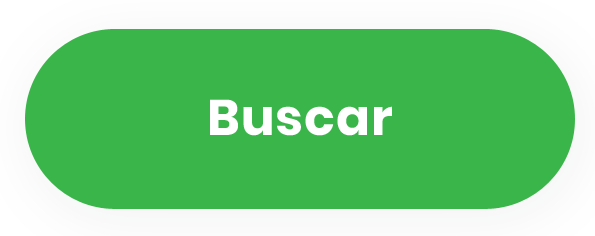
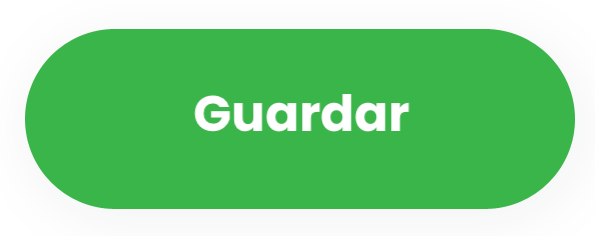
Recuperar password

Changed region(s): [[0.3025, 0.3856, 0.6958, 0.5932]]

diff --git a/www/templates/recuperar.html b/www/templates/recuperar.html
@@ -6,7 +6,7 @@
                 <img src="img/header_left.png" width="150" height="150"></img>
                 
         </div>
-        <form class="list" name="loginForm">
+        <form class="list" name="recuperarForm">
             <div style="line-height: 0px; border: 0px solid rgb(238, 238, 238); border-radius: 3px; text-align: center; width: 100%; height: auto; background-color: rgb(255, 255, 255);">
                  <div class="spacer" style="height: 30px;"></div>
                 <img src="img/logo_ajustado.png" width="200" height="40"></img>
@@ -14,7 +14,7 @@
             </div>
             <div style="line-height: 0px; border: 0px solid rgb(238, 238, 238); border-radius: 3px; text-align: center; width: 100%; height: auto; background-color: rgb(255, 255, 255);">
                  <div class="spacer" style="height: 25px;"></div>
-                <img src="img/acceso_es.png" width="60" height="10"></img>
+                
                 
             </div>
            
@@ -22,35 +22,27 @@
 
             <div align="center" style="line-height: 0px; border: 0px solid rgb(238, 238, 238); border-radius: 3px; text-align: center; width: 100%; height: auto; background-color: rgb(255, 255, 255);">
                 <div class="spacer" style="height: 15px;"></div>
-                  <div style="background: url('img/user.png'); background-size: 270px 45px; margin: 0 auto; text-align: center; width: 270px; height: 45px;">
+                  <div style="background: url('img/pass.png'); background-size: 270px 45px; margin: 0 auto; text-align: center; width: 270px; height: 45px;">
                     <label class="item_login item-input">
                     
-                        <input type="text" size="10" ng-model="usuarioLogin.user"  placeholder="Usuario">
+                        <input type="password" size="10" ng-model="usuario.password"  placeholder="Password">
                     </label>
                   </div>
                  <div class="spacer" style="height: 15px;"></div>
                   <div style="background: url('img/pass.png'); background-size: 270px 45px; margin: 0 auto; text-align: center; width: 270px; height: 45px;">
                     <label class="item_login item-input">
                     
-                        <input type="password" size="30" ng-model="usuarioLogin.password"  placeholder="Clave">
+                        <input type="password" size="30" ng-model="usuario.password2"  placeholder="Repetir password">
                     </label>
                   </div>
-                
-                
-            </div>
-
-             <div align="left" style="line-height: 0px; border: 0px solid rgb(238, 238, 238); border-radius: 3px; text-align: center; width: 100%; height: auto; background-color: rgb(255, 255, 255);">
-                
-                 <div class="spacer" style="height: 20px;"></div>
-                <a href="#/usuarioEmail"><img src="img/title_forgot.png" width="120" height="20"></img></a>
-                    
+                                
             </div>
 
             <div align="left" style="line-height: 0px; border: 0px solid rgb(238, 238, 238); border-radius: 3px; text-align: center; width: 100%; height: auto; background-color: rgb(255, 255, 255);">
                 
-                 <div class="spacer" style="height: 20px;"></div>
-                <img src="img/button_entrar_es.png" width="150" height="60" ng-click="loginUsuario(loginForm);"></img>
-                 
+                 <div class="spacer" style="height: 30px;"></div>
+                <img src="img/btn_guardar.png" width="150" height="60" ng-click="recuperarUsuario(recuperarForm);"></img>
+                
             </div>
             
             <div align="left" style="line-height: 0px; border: 0px solid rgb(238, 238, 238); border-radius: 3px; text-align:left; width: 100%; height:auto; background-color: rgb(255, 255, 255);">
@@ -62,9 +54,7 @@
                     <div class = "col-20" ><img src="img/footer.png" width="100" height="100"></img></div>
                     <div class = "col-10" ></div>
 
-                    <div class = "col-50" style="text-align: center;">
-                        <a href="#/userRegister"><img src="img/Registro_es.png" width="150" height="50"></img></a>
-                    </div>
+                  
 
                 </div>
             </div>

diff --git a/www/js/controllers.js b/www/js/controllers.js
@@ -52,40 +52,74 @@ angular.module('app.controllers', [])
 
 .controller('usuarioEmailCtrl', function($scope, usuarioService, $state, $ionicPopup) {
   console.log("UsuarioEmail Ctrl");
-  $scope.usuarioLogin={};
+  $scope.usuarioEmail={};
+ 
 
-  $scope.findUserEmail = function (usuarioEmailForm) {
-     console.debug("search user");
-     var user = $scope.usuarioEmail.user.toLowerCase();
-     var email = $scope.usuarioEmail.email.toLowerCase();
+  $scope.findUserEmail = function () {
+   console.info("search user"+$scope.usuarioEmail.mail);
+   var user = $scope.usuarioEmail.user.toLowerCase();
+   var mail = $scope.usuarioEmail.mail.toLowerCase();     
+    console.debug("search user");    
+    usuarioService.getUserByUserAndEmail(user,mail)
+      .success(function (data) {
+
+          console.log('Saved User '+data.user);
+          
+          
+          if(!(data.status != null && data.status != undefined)){
+           console.log('User exist '+data.user);
+             //Calling the login function in sharedConn  
+          
+            console.log("user:"+user);
+            $state.go('recuperar', {user});
+            
+          }else{
+            var alertPopup = $ionicPopup.alert({
+              title: 'Usuario o correo incorrecto',
+              template: 'Por favor intenta de nuevo!'
+            });
+          }
+      }).
+      error(function(error) {
+          $scope.status = 'Unable to get user: ' + error.message;
+      });
+  }
+ 
+
+
+})
+
+.controller('recuperarCtrl', function($scope, usuarioService, $state, $ionicPopup, $stateParams) {
+  console.log("recuperarCtrl");
+  $scope.usuario={};
+  //$scope.usuario = ;
+  console.log("usuario: "+$stateParams.user);
+
+  $scope.recuperarUsuario = function () {
+     
+     var password = $scope.usuario.password.toLowerCase();
+     var password2 = $scope.usuario.password2.toLowerCase();
 
          //uuu
-          
-           
-      usuarioService.getUserByUserAndLogin($scope.usuarioEmail)
-        .success(function (data) {
-
-            console.log('Saved User '+data.status);
-            $scope.usuarioLogin={};
-            if(!(data.status != null && data.status != undefined)){
-             console.log('User exist '+data.user);
-               //Calling the login function in sharedConn  
-            
-              //$state.go("tabsController.solicitudes");
-              
-            }else{
-              var alertPopup = $ionicPopup.alert({
-                title: 'Usuario o password incorrectos',
-                template: 'Por favor intenta de nuevo!'
+      
+      if (password == password2){
+        $scope.usuario.user = $stateParams.user;
+        $scope.usuario.password = password;
+        usuarioService.setPasswordForUser($scope.usuario)
+              .success(function () {
+                  console.log('Saved User.');
+                  $state.go("login");
+              }).
+              error(function(error) {
+                  $scope.status = 'Unable to change password: ' + error.message;
               });
-            }
-            
-            
-
-        }).
-        error(function(error) {
-            $scope.status = 'Unable to get user: ' + error.message;
+      
+      }else {
+        var alertPopup = $ionicPopup.alert({
+          title: 'Password no coincide !',
+          template: 'Por favor intenta de nuevo!'
         });
+      }
   }
  
 

diff --git a/www/templates/usuario_email.html b/www/templates/usuario_email.html
@@ -13,8 +13,14 @@
                 
             </div>
             <div style="line-height: 0px; border: 0px solid rgb(238, 238, 238); border-radius: 3px; text-align: center; width: 100%; height: auto; background-color: rgb(255, 255, 255);">
-                 <div class="spacer" style="height: 25px;"></div>
-                <img src="img/acceso_es.png" width="60" height="10"></img>
+                 <div class="spacer" style="height: 5px;"></div>
+                <img src="img/title_recuperar.png" width="150" height="30"></img>
+                
+            </div>
+
+            <div style="line-height: 0px; border: 0px solid rgb(238, 238, 238); border-radius: 3px; text-align: center; width: 100%; height: auto; background-color: rgb(255, 255, 255);">
+                 <div class="spacer" style="height: 15px;"></div>
+                
                 
             </div>
            
@@ -32,19 +38,16 @@
                   <div style="background: url('img/pass.png'); background-size: 270px 45px; margin: 0 auto; text-align: center; width: 270px; height: 45px;">
                     <label class="item_login item-input">
                     
-                        <input type="Email" size="30" ng-model="usuarioEmail.email"  placeholder="Clave">
+                        <input type="text" size="30" ng-model="usuarioEmail.mail"  placeholder="Correo">
                     </label>
                   </div>
-                
-                
+                                
             </div>
-
-            
 
             <div align="left" style="line-height: 0px; border: 0px solid rgb(238, 238, 238); border-radius: 3px; text-align: center; width: 100%; height: auto; background-color: rgb(255, 255, 255);">
                 
                  <div class="spacer" style="height: 30px;"></div>
-                <img src="img/button_entrar_es.png" width="150" height="60" ng-click="findUsuarioEmail(usuarioEmailForm);"></img>
+                <img src="img/button_buscar_es.png" width="150" height="60" ng-click="findUserEmail(usuarioEmailForm);"></img>
                 
             </div>
             
@@ -57,9 +60,7 @@
                     <div class = "col-20" ><img src="img/footer.png" width="100" height="100"></img></div>
                     <div class = "col-10" ></div>
 
-                    <div class = "col-50" style="text-align: center;"">
-                        <a href="#/userRegister"><img src="img/Registro_es.png" width="150" height="50"></img></a>
-                    </div>
+                  
 
                 </div>
             </div>

diff --git a/www/js/services.js b/www/js/services.js
@@ -21,9 +21,9 @@ angular.module('app.services', [])
         return $http.post(url+"login/", usuarioLogin);
     };
 
-    usuarioService.getUserByUserAndEmail = function (usuarioEmail) {
-        console.log("Service: getting User");
-        return $http.get(url+usuarioEmail.user+"/email/"+usuarioEmail.email);
+    usuarioService.getUserByUserAndEmail = function (user, email) {
+        console.log("Service: getting User"+user);
+        return $http.get(url+user+"/email/"+email);
     };
 
     usuarioService.getUserByUser = function (user) {
@@ -37,6 +37,11 @@ angular.module('app.services', [])
 
     usuarioService.addContactToUser = function (contact, user) {
         return $http.get(url+user+"/contacto/"+contact);
+    };
+
+     usuarioService.setPasswordForUser = function (usuario) {
+            console.log("Service: Guardando Usuario");
+        return $http.put(url+"password/", usuario);
     };
     
     return usuarioService;
@@ -550,7 +555,7 @@ $ionicPopup for making Responsive Popups
     //--------------------------------------***END HELPER FUNCTIONS***----------------------------------------------------------
     //Login Function
     SharedConnObj.login=function (jid,host,pass) { 
-        console.log("jid"+pass);
+        console.log("jid");
         //console.log("pass"+pass);  
         //Strophe syntax
         // We are creating Strophe connection Object

diff --git a/www/js/routes.js b/www/js/routes.js
@@ -22,6 +22,15 @@ angular.module('app.routes', [])
       controller: 'usuarioEmailCtrl'
     })
 
+    .state('recuperar', {
+      url: '/recuperar',
+      params:{
+            user:null
+      },
+      templateUrl: 'templates/recuperar.html',
+      controller: 'recuperarCtrl'
+    })
+
     .state('registro', {
       url: '/homeRegister',
       templateUrl: 'templates/registro.html',
